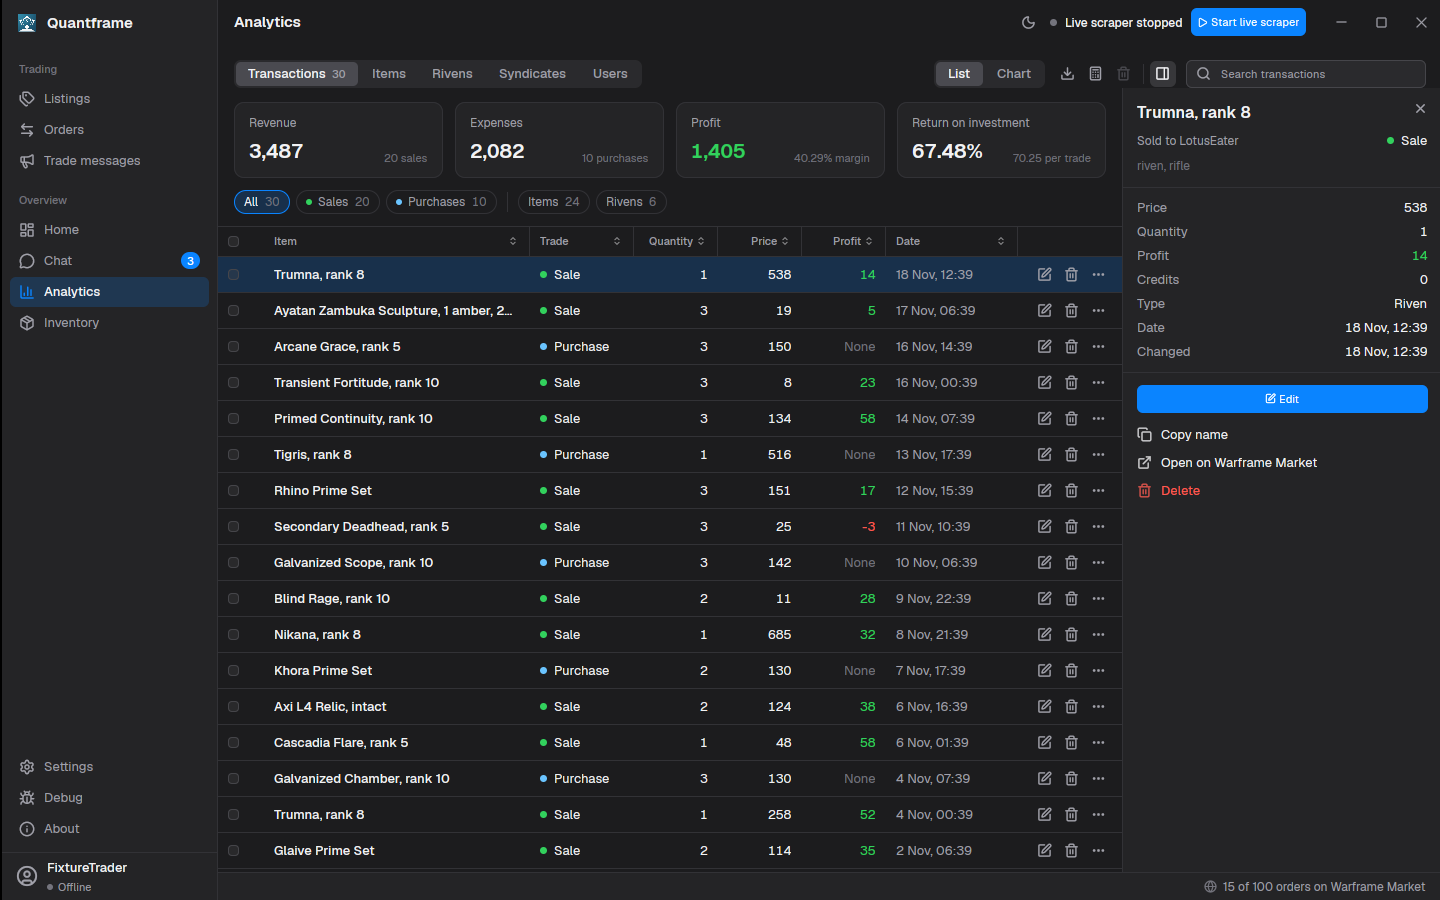
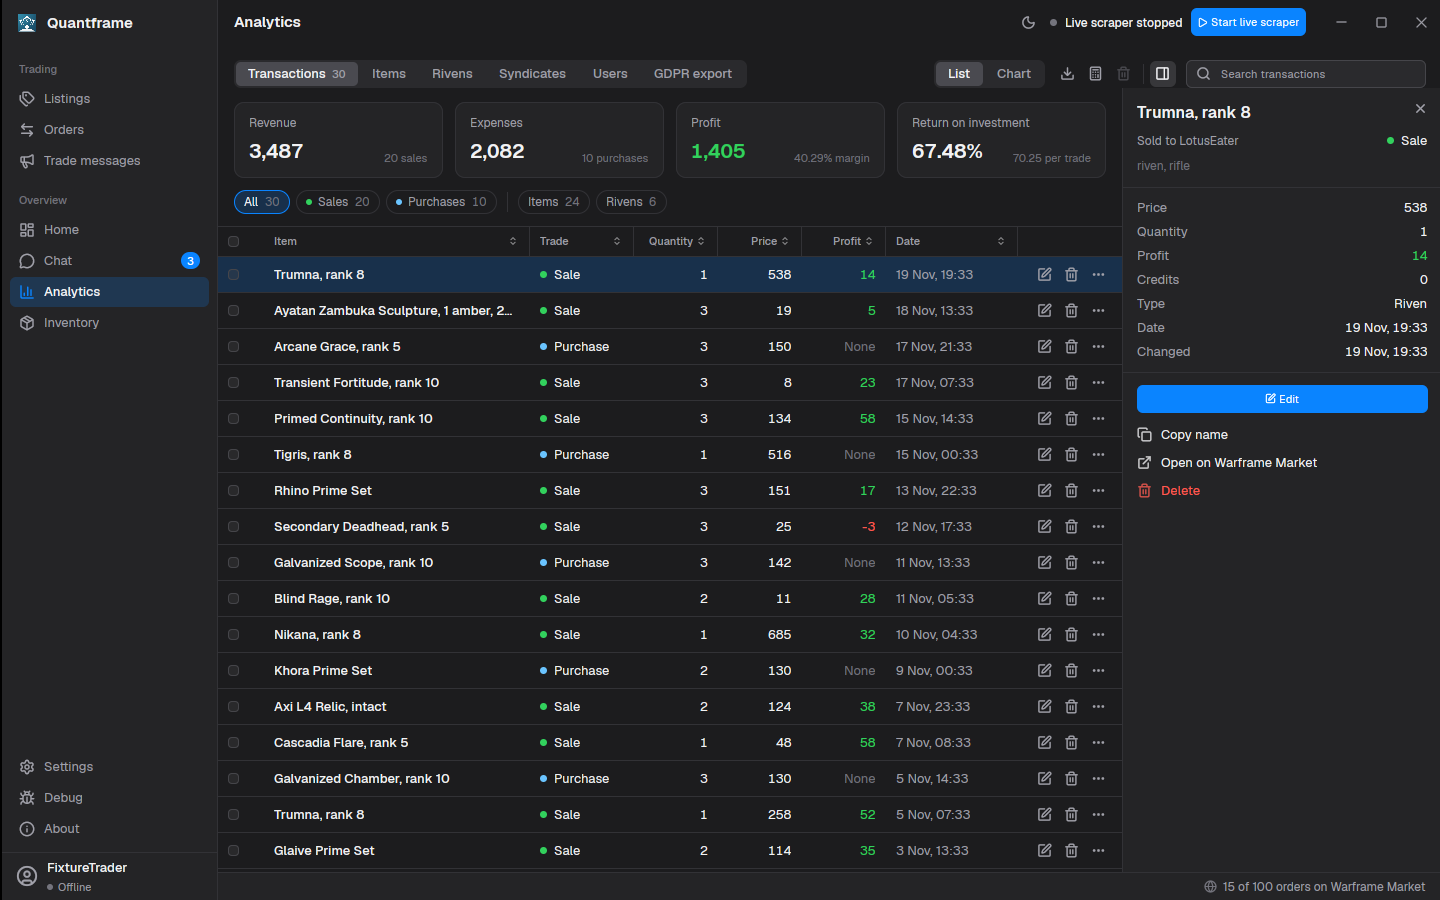
Render the trade sheet and GDPR views and record the findings

diff --git a/memory.md b/memory.md
@@ -66,3 +66,10 @@
 - 2026-11-18: GPUI's Find rivens action queries the previous completed UTC hour, matching the Tauri request, and saves that timestamp on created entries. The midnight rollover test passes, and clicking through the GPUI form with networking disabled logged the expected query in the fixture rejection. GPUI applies matches after the filter form is submitted. The Tauri results preview is still missing.
 - 2026-11-18: Shipped the GPUI branch for Linux fixture use under the overnight fallback. Remaining parity gaps include the Warframe GDPR import and report, the detected-trade popup, desktop notifications and sounds, and translated GPUI UI text. Fixture analytics that depend on Kenya's API show error states, and account-backed behavior was left unverified. The README documents the locked build and the fixture launch.
 - 2026-11-18: The fork uses `dev.quantframe` for both GPUI and Tauri. Existing profiles can be copied with both apps closed. The README opens with GPUI screenshots, and the app credits eyeveil and the Quantframe contributors alongside original author Kenya-DK. The scraper status and progress are beside its title-bar control. The footer shows the order count and the sidebar shows account presence.
+- 2026-11-19: `app-gpui` has the detected-trade sheet in `src/detected_trade/`. `TradeDesk` queues every `BackendEvent::TradeDetected`, opens a gpui-component dialog over the main window, and `AppShell` shows an "N trades to review" title-bar button while the queue has trades. Decision: an in-app sheet, not a second OS window as in Tauri, because a new window can take focus from the game, the queue survives closing the sheet, and Xvfb has no window manager to place a second window. "Record sale" or Enter calls `DataSource::handles_handle_items` (`commands::handlers::handles_handle_items`, the command the React popup calls) with the React payload: price is unit price times quantity, and the operations are `SetDate:<tradeTime>` plus `WishList` or `NotWishList`. The backend sends no change event for that command, so the sheet emits `Changed` for stock items, wish list, transactions and orders through the `Backend` entity.
+- 2026-11-19: `data::Trade` gained `time` and `items: Vec<DetectedItem>` (name, `wfm_url`, quantity, sub type, unit price, wish list flag, and the sub type limits). The old parser read `tradeType`, but `PlayerTrade` serialises the field as `type`, so `trade_type` was always empty before this change. `show_trade` fires only for trades with several items or an item with `requireSubType` (`needs_multi_processing` in `on_trading.rs`). Single-item trades are recorded without a popup when `auto_trade` is on.
+- 2026-11-19: `QF_TRADE=sale`, `purchase` or `sale,purchase` sends sample trades through `BackendEvent::parse("add_trade", ..)`, and `QF_VIEW=edit` opens the sheet with editable prices. Driven under `unshare -rn xvfb-run` on a fresh `QF_STORAGE_DIR` with the release binary: closing the sheet kept the trade, the title-bar button reopened it, and "Record sale" changed Mesa Prime Set 6 to 4, Primed Flow 3 to 2, Rubico Prime Set 5 to 4 and transactions 30 to 33 in `quantframeV2.sqlite`. With `QF_WINDOW_CONTROLS=1` in a 1440x900 window the title-bar button is at 985,22, the close button at 1053,108 and "Record sale" at 1017,576. The recipe was `/tmp/qf-drive/confirm.sh` (not committed). Captures: `docs/screenshots/trade-popup-confirm-1-sheet.png` and `-2-recorded.png`.
+- 2026-11-19: The Warframe GDPR report is the sixth Analytics tab, "GDPR export" (`QF_TAB=gdpr`, code in `app-gpui/src/gdpr/`). Sections: Overview, Trades, Market purchases and Payments (the backend's "transactions", renamed because Analytics already has a Transactions tab). Each list is a `Catalog` on `ListPage` with a List and Report switch. `QF_VIEW` takes `overview`, `trades`, `purchases`, `payments`, the same three with `-report`, and `import` for the state before a file is loaded. `ListPage::update_catalog` is the one new shared method: it edits the catalog and reloads, so a view can hand a catalog data it loaded itself. Import uses `cx.prompt_for_paths` and a drop handler for `ExternalPaths`. Under Xvfb the prompt returns an error (no desktop portal), so the file dialog and the drop are untested on a real desktop.
+- 2026-11-19: Fixture mode loads `src-tauri/fixtures/warframe_gdpr.txt` (synthetic, one account: 18 trades, 8 sign-ins, 7 market purchases, 5 payments) through `fixtures::load_warframe_gdpr`, called at the end of `fixtures::seed`. It is hand-written, not produced by `generate.py`.
+- 2026-11-19: GDPR parser defects found, not fixed (outside the task's scope). Measured in fixture mode: a trade line with a quantity above 1 becomes an item named like `mesa_prime_set_x_2` with quantity 1, because `warframe_gdpr.rs` appends ` x N` to the name and only `is_platinum_or_credits` parses that suffix, so the fixture's trade lines all use quantity 1. Inferred from the code: with several accounts in one file, the last trade, sign-in, purchase and payment of an account are added to the next account, because a new `ACCOUNT` line doesn't flush the pending records. In fixture mode every traded item has type Unknown, because only `TradableItems.json` and the weapon caches exist, and its name comes from the tradable-item lookup.
+- 2026-11-19: A debug build of `app-gpui` panics at startup with `QF_WINDOW_CONTROLS` set ("hover style already set", gpui `div.rs:867`), because `shell/mod.rs::window_controls` gives the close button a second `.hover`. Release builds skip that debug assertion, so `render-screens.sh` is unaffected. Not fixed.
